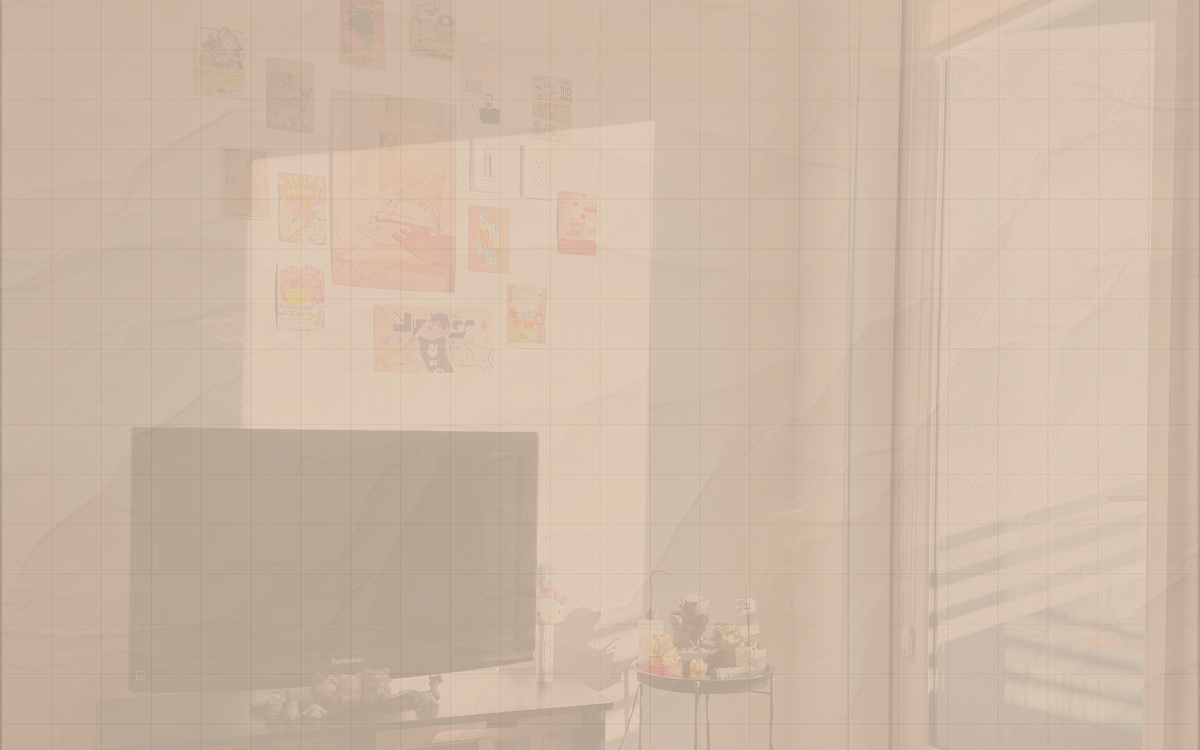
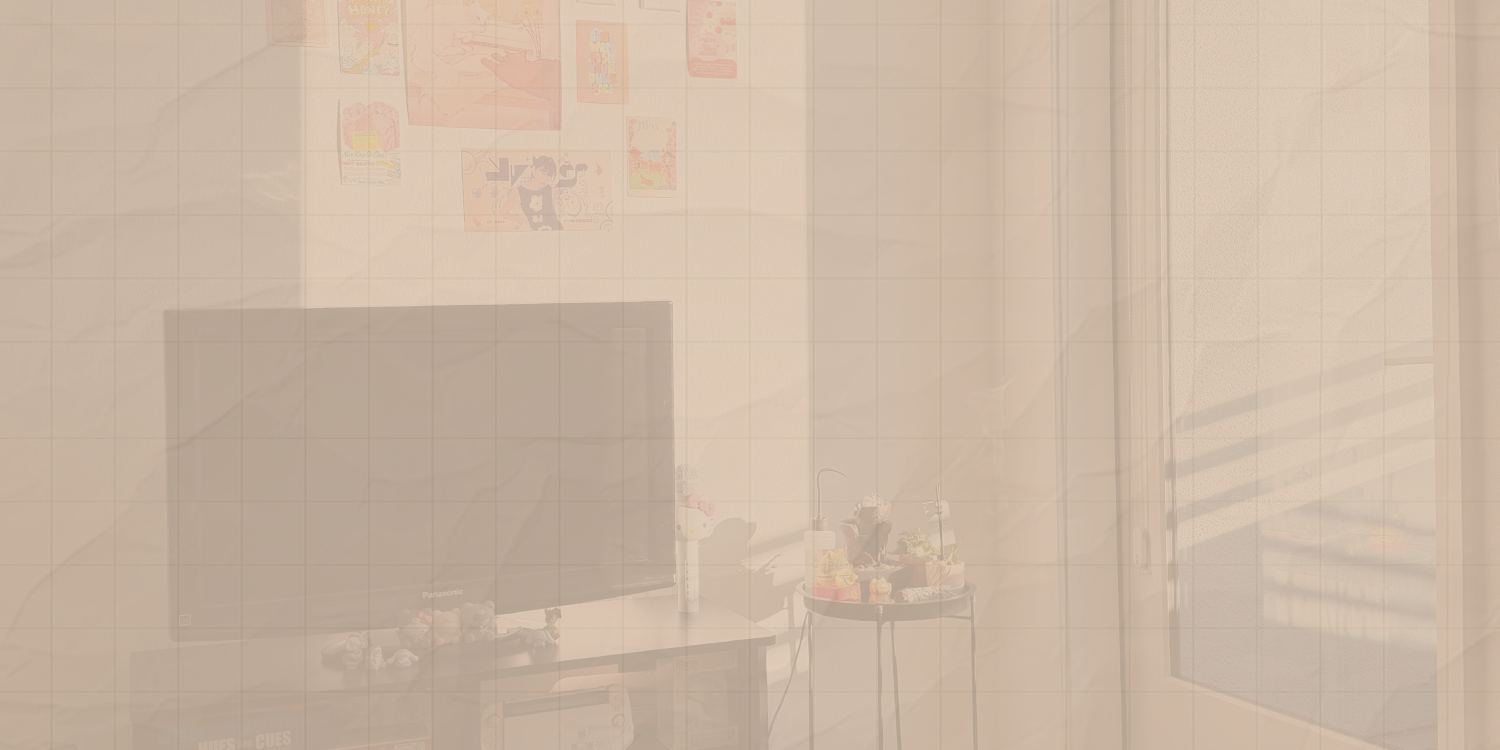
added new styles and html

diff --git a/picture-everywhere/picture-v1/styles.css b/picture-everywhere/picture-v1/styles.css
@@ -7,7 +7,7 @@
        overflow-y: hidden;  
 }
 
-.picture-main {
+.picture-main, .transportation-main, .pick-main, .bus-main{
     position: relative;
      display: flex;
     justify-content: center;
@@ -24,13 +24,13 @@
 .picture-nav .home {
     position: absolute;
     left: -100px;
-    bottom: 150px;
+    bottom: 100px;
 }
 
 .picture-nav .next {
      position: absolute;
     right: -100px;
-    bottom: 150px;
+    bottom: 100px;
 }
 
 .thought-bubbles {
@@ -57,4 +57,94 @@
 .thought-two {
     right: 20px;
     bottom: 50%;
+}
+
+.my-head {
+    max-width: 100%;
+    width: 600px;
+}
+
+.decorations {
+    position: absolute;
+}
+
+
+
+/* transportation page */
+
+.transportation-body {
+    background-image: url(images/room-background.png);
+    background-position: center;
+   max-height: 750px;
+    max-width: 1200px;
+    margin: auto;  
+       overflow-y: hidden;  
+}
+
+
+.transportation-options {
+    display: flex; 
+    flex-direction: row;
+    justify-content: center;
+    align-items: center;
+    gap: 150px;
+}
+
+.transportation-options .keys img,.transportation-options .bus img {
+    max-width: 100%;
+    width: 400px;
+}
+
+.transportation-options .bus img {
+    rotate: calc(20deg);
+}
+
+.transportation-options .specs {
+    margin: 0;
+    padding: 0;
+}
+
+/* .transportation-options .keys .specs{
+    position: absolute;
+}
+
+.transportation-options .bus .specs {
+    position: absolute;
+} */
+
+
+/* bus spot  */
+.bus-body {
+        background-image: url(images/bus-background.png);
+   max-height: 750px;
+    max-width: 1200px;
+    margin: auto;  
+       overflow-y: hidden; 
+}
+
+
+
+/* pick a spot */
+
+.pick-body {
+   background-image: url(images/place-background.png);
+   max-height: 750px;
+    max-width: 1200px;
+    margin: auto;  
+       overflow-y: hidden; 
+
+}
+
+
+.spot-options {
+    gap: 100px;
+    display: flex;
+    flex-direction: row;
+    justify-content: center;
+    align-items: center;
+    
+}
+
+.spot-text p{
+    width: 300px;
 }

diff --git a/picture-everywhere/picture-v1/transportation.html b/picture-everywhere/picture-v1/transportation.html
@@ -7,42 +7,48 @@
     <link rel="stylesheet" href="styles.css">
     <link src="script.js" defer>
 </head>
-<body>
+<body class="transportation-body">
+    <main class="transportation-main">
     <!-- animation will have the text either size up or something with scrapbook -->
-    <h1>Guess How I'm Going There</h1>
+        <h1>Guess How I'm Going There</h1>
 
-    <!-- same here for h1-->
-    <h3>Hover over the options to see the specs!</h3>
-    <!-- main images -->
-     <!-- animation: hover to see the specs and comments and image goes size up -->
+        <!-- same here for h1-->
+        <h3>Hover over the options to see the specs!</h3>
+        <!-- main images -->
+        <!-- animation: hover to see the specs and comments and image goes size up -->
 
-    <div class="transportation-options">
-        <img src="images/keys.png" alt="photo of keys">
-        <div>
-            <p>Pros:Get there faster, Comfy chairs?</p>
-            <p>Cons: GAS IS EXPENSIVE</p>
+        <div class="transportation-options">
+            <div class="keys">
+                <img src="images/keys.png" alt="photo of keys">
+                <div class="specs">
+                    <p>Pros:Get there faster, Comfy chairs?</p>
+                    <p>Cons: GAS IS EXPENSIVE</p>
+                </div>
+            </div>
+   
+        
+            <div class="bus">
+                <img src="images/ID.png" alt="photo of bus card">
+                <div class="specs">
+                    <p>Pros: Free rides!, New sceneries</p>
+                    <p>Cons: Long wait time, Destination feels like FOREVER</p>
+                </div>
+            </div>
         </div>
-     </div>
-    
-    <div class="">
-          <img src="images/ID.png" alt="photo of bus card">
-        <div>
-            <p>Pros: Free rides!, New sceneries</p>
-            <p>Cons: Long wait time, Destination feels like FOREVER</p>
+        
+        <!-- decoration images -->
+        <!-- animation: sway -->
+        <div class="decorations">
+            <img src="" alt="photo of buttons">
+            <img src="" alt="photo of buttons">
+            <img src="" alt="photo of buttons">
         </div>
-    </div>
-    
-    <!-- decoration images -->
-     <!-- animation: sway -->
-    <img src="" alt="photo of buttons">
-    <img src="" alt="photo of buttons">
-    <img src="" alt="photo of buttons">
 
-    <nav>
-        <!-- <a href="picture.html"><img src="images/" alt="photo of home"></a> -->
-        <a href="bus.html"><img src="images/" alt="photo of forward arrow"></a>
-    </nav>
-
+        <nav class="picture-nav"> 
+            <!-- <a href="picture.html"><img src="images/" alt="photo of home"></a> -->
+            <a class="next" href="bus.html"><img src="images/" alt="photo of forward arrow"></a>
+        </nav>
+    </main>
     
 </body>
 </html>

diff --git a/picture-everywhere/picture-v1/pick-a-spot.html b/picture-everywhere/picture-v1/pick-a-spot.html
@@ -7,39 +7,44 @@
     <link rel="stylesheet" href="styles.css">
     <link src="script.js" defer>
 </head>
-<body>
-    <!-- animtion: will size up or scrapbook animation -->
-    <h1>Dear diary… I can’t decide</h1>
+<body class="pick-body">
+    <main class="pick-main">
+        <!-- animtion: will size up or scrapbook animation -->
+        <h1>Dear diary… I can’t decide</h1>
 
-    <h3>Hover over the options to see the specs!</h3>
-    <!-- main images -->
-    <!-- animation: size up and either on the side or somewhere on top, information -->
-    <div class="spot-options">
-        <img src="" alt="photo of itea">
-        <div>
-            <p>Pros: OG spot!, Affordable prices, Love their popcorn chicken</p>
-            <p>Cons: Too crowded, Long wait time, Sometimes too sweet</p>
+        <h3>Hover over the options to see the specs!</h3>
+        <!-- main images -->
+        <!-- animation: size up and either on the side or somewhere on top, information -->
+        <div class="spot-options">
+            <div class="spot-text">
+            <img src="" alt="photo of itea">
+            
+                <p>Pros: OG spot!, Affordable prices, Love their popcorn chicken</p>
+                <p>Cons: Too crowded, Long wait time, Sometimes too sweet</p>
+            </div>
+        
+                  <div class="spot-text">
+                <img src="" alt="photo of sharetea">
+      
+                    <p>Pros: Strong tea flavors, Wide varieties of toppings!, Love their milk teas</p>
+                    <p>Cons: A little too expensive, Too much ice :O, Far location</p>
+                </div>
         </div>
-     </div>
-    
-    <div class="">
-         <img src="" alt="photo of sharetea">
-        <div>
-            <p>Pros: Strong tea flavors, Wide varieties of toppings!, Love their milk teas</p>
-            <p>Cons: A little too expensive, Too much ice :O, Far location</p>
+        
+        <!-- decoration images -->
+        <!-- animation: sway -->
+        <div class="decorations">
+            <img src="" alt="photo of buttons">
+            <img src="" alt="photo of buttons">
+            <img src="" alt="photo of buttons">
         </div>
-    </div>
-    
-    <!-- decoration images -->
-     <!-- animation: sway -->
-    <img src="" alt="photo of buttons">
-    <img src="" alt="photo of buttons">
-    <img src="" alt="photo of buttons">
 
-    <nav>
-        <!-- <a href="picture.html"><img src="images/" alt="photo of home"></a> -->
-        <a href="ending.html"><img src="images/" alt="photo of forward arrow"></a>
-    </nav>
+        <nav class="picture-nav">
+            <!-- <a href="picture.html"><img src="images/" alt="photo of home"></a> -->
+            <a class="next" href="ending.html"><img src="images/" alt="photo of forward arrow"></a>
+        </nav>
+
+    </main>
 
     
 </body>

diff --git a/picture-everywhere/picture-v1/bus.html b/picture-everywhere/picture-v1/bus.html
@@ -6,33 +6,36 @@
     <title>Every Picture</title>
     <link rel="stylesheet" href="styles.css">
 </head>
-<body>
-
+<body class="bus-body">
+    <main class="bus-main">
     <!-- animation: scrapbook animation  -->
-    <h1>Bus Adventure Activated!</h1>
-    <!-- main images -->
+        <h1>Bus Adventure Activated!</h1>
+        <!-- main images -->
 
-    <!-- animation: size up when hovered, and shakes to reveal that my friend is on the bus with me and image stays -->
-    <div class="hover-me">
-        <img src="" alt="photo of Trixi in the bus">
-        <img src="" alt="photo of bus card">
-    </div>
-    
-    <div class="sticky-notes"> 
-        <div class="sticker"></div>
-        <img src="images/#" alt="photo of me waiting for bus">
-    </div>
-    <!-- decoration images -->
-     <!-- animation: sway -->
-    <img src="" alt="photo of buttons">
-    <img src="" alt="photo of buttons">
-    <img src="" alt="photo of buttons">
+        <!-- animation: size up when hovered, and shakes to reveal that my friend is on the bus with me and image stays -->
+        <div class="hover-me">
+            <img src="" alt="photo of Trixi in the bus">
+            <img src="" alt="photo of bus card">
+        </div>
+        
+        <div class="sticky-notes"> 
+            <div class="sticker"></div>
+            <img src="images/#" alt="photo of me waiting for bus">
+        </div>
+        <!-- decoration images -->
+        <!-- animation: sway -->
 
-    <nav>
-        <!-- <a href="picture.html"><img src="images/" alt="photo of home"></a> -->
-        <a href="pick-a-spot.html"><img src="images/" alt="photo of forward arrow"></a>
-    </nav>
+        <div class="decorations">
+            <img src="" alt="photo of buttons">
+            <img src="" alt="photo of buttons">
+            <img src="" alt="photo of buttons">
+        </div>
 
+        <nav class="picture-nav">
+            <!-- <a href="picture.html"><img src="images/" alt="photo of home"></a> -->
+            <a class="next" href="pick-a-spot.html"><img src="images/" alt="photo of forward arrow"></a>
+        </nav>
+    </main>
     
 </body>
 </html>

diff --git a/picture-everywhere/picture-v1/picture.html b/picture-everywhere/picture-v1/picture.html
@@ -35,13 +35,15 @@
         </section>
 
         <!-- animation: add a pop up when it loads -->
-        <img src="images/MyHead.png" alt="image of Trixibele">
+        <img class="my-head" src="images/MyHead.png" alt="image of Trixibele">
         
         <!-- decoration images -->
         <!-- animation: sway -->
-        <img src="" alt="photo of buttons">
-        <img src="" alt="photo of buttons">
-        <img src="" alt="photo of buttons">
+         <div class="decorations">
+            <img src="" alt="photo of buttons">
+            <img src="" alt="photo of buttons">
+            <img src="" alt="photo of buttons">
+        </div>
 
         <nav class="picture-nav">
             <a class="home" href="../index.html"><img src="images/" alt="photo of home"></a>